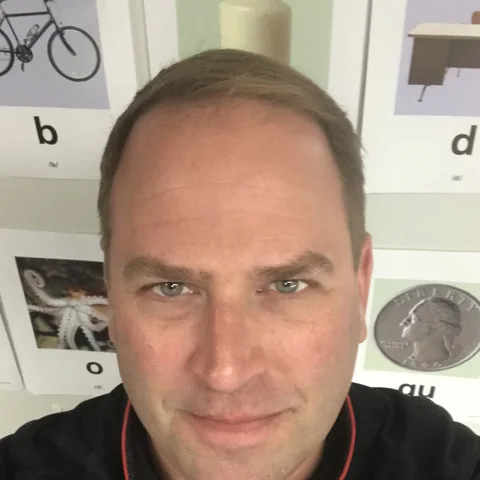
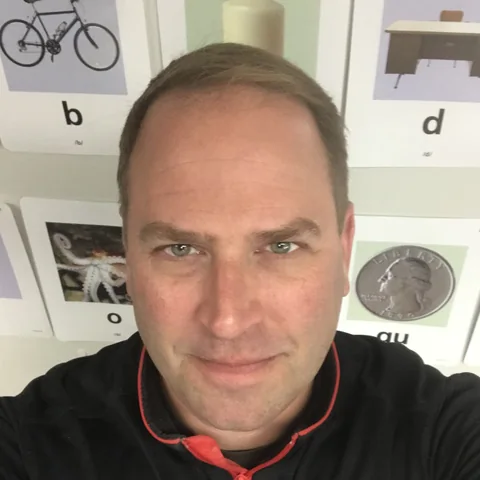
Endorsements: fix portrait crops, Friends of Gina titles, cards size to their quote; scrollbar drag follows the pointer with no smooth-scroll lag

diff --git a/index.html b/index.html
@@ -579,7 +579,7 @@ body.locked{overflow:hidden}
   display:grid;grid-template-columns:1fr;gap:clamp(14px,2vw,22px);
   margin-top:clamp(22px,3vw,34px);
 }
-@media (min-width:700px){ .endgrid{grid-template-columns:repeat(2,1fr)} }
+@media (min-width:700px){ .endgrid{grid-template-columns:repeat(2,1fr);align-items:start} }
 .endcard{
   background:#fff;border:1px solid rgba(26,41,73,.13);
   padding:clamp(18px,2.2vw,26px);
@@ -1213,7 +1213,7 @@ footer::before{content:'';position:absolute;top:0;left:0;right:0;height:2px;back
         <div class="face"><img src="img/end-tracie-480.webp" width="480" height="480" loading="lazy" decoding="async" alt="Tracie Lawrence"></div>
         <div class="said">
           <p>“Over many years of friendship, I’ve had the privilege of learning who Gina truly is: intentional, honest, principled, and courageous. She balances a soft front and a strong back with grace and grit, open enough to truly listen and understand another person’s perspective while remaining firmly grounded in her values. Those qualities matter in public service, especially when navigating difficult issues and representing people with different perspectives. That balance of compassion and strength is one of the things I admire most about Gina, and I’m honored to endorse her for State House District 24.”</p>
-          <figcaption class="who"><b>Tracie Lawrence</b><span>Longtime Friend</span></figcaption>
+          <figcaption class="who"><b>Tracie Lawrence</b><span>Friends of Gina</span></figcaption>
         </div>
       </figure>
       <figure class="endcard">
@@ -1232,14 +1232,14 @@ footer::before{content:'';position:absolute;top:0;left:0;right:0;height:2px;back
           <p>“As a lifelong Alaskan, I’ve watched our state change over the years, and I believe we need to get back to the priorities that matter most to Alaskans. That’s why I’m supporting Gina Wall for Alaska State House.</p>
           <p>Gina listens, cares and is action-oriented. I can attest to her strong moral compass, her belief in responsible and accountable government, and her understanding that elected officials should work for the people they represent.</p>
           <p>I’m supporting Gina because I trust her character, her integrity, and her determination to take action and help move Alaska in the right direction.”</p>
-          <figcaption class="who"><b>Wendy Lewis</b><span>Lifelong Alaskan</span></figcaption>
+          <figcaption class="who"><b>Wendy Lewis</b><span>Friends of Gina</span></figcaption>
         </div>
       </figure>
       <figure class="endcard">
         <div class="face"><img src="img/end-bull-480.webp" width="480" height="480" loading="lazy" decoding="async" alt="Mike &amp; Ashley Bull"></div>
         <div class="said">
           <p>“We have been blessed to call Gina Wall our dear friend for nearly 20 years. Gina and her family have been a constant, loving presence in our lives, helping raise and support our son every step of the way. She is someone we know we can count on, and someone who genuinely cares about our community and our state. Gina is dedicated to making Alaska the best it can be, and we know she will always have the best interests of Alaskans at heart. If we can trust Gina with what matters most to us, our son, we wholeheartedly trust her to represent our community in the Alaska State House. We are proud to wholeheartedly endorse our friend, Gina Wall.”</p>
-          <figcaption class="who"><b>Mike &amp; Ashley Bull</b><span>Friends for Nearly 20 Years</span></figcaption>
+          <figcaption class="who"><b>Mike &amp; Ashley Bull</b><span>Friends of Gina</span></figcaption>
         </div>
       </figure>
     </div>
@@ -1862,6 +1862,7 @@ footer::before{content:'';position:absolute;top:0;left:0;right:0;height:2px;back
     grabOff = e.clientY - thumb.getBoundingClientRect().top;
     bar.classList.add('drag');
     document.body.classList.add('sbardrag');
+    document.documentElement.style.scrollBehavior = 'auto';   // follow the pointer 1:1
     clearTimeout(timer);
     thumb.setPointerCapture(e.pointerId);
     e.preventDefault();
@@ -1872,7 +1873,7 @@ footer::before{content:'';position:absolute;top:0;left:0;right:0;height:2px;back
     var span = trackH - thumbH;
     if (span <= 0) return;
     var t = Math.min(Math.max(e.clientY - grabOff - PAD, 0), span);
-    window.scrollTo(0, (t / span) * range);
+    window.scrollTo({top: (t / span) * range, behavior: 'instant'});
     place();                              // scroll events are coalesced; do not wait
     e.preventDefault();
   });
@@ -1882,6 +1883,7 @@ footer::before{content:'';position:absolute;top:0;left:0;right:0;height:2px;back
     dragging = false;
     bar.classList.remove('drag');
     document.body.classList.remove('sbardrag');
+    document.documentElement.style.scrollBehavior = '';
     if (e && e.pointerId != null && thumb.hasPointerCapture(e.pointerId)) {
       thumb.releasePointerCapture(e.pointerId);
     }
